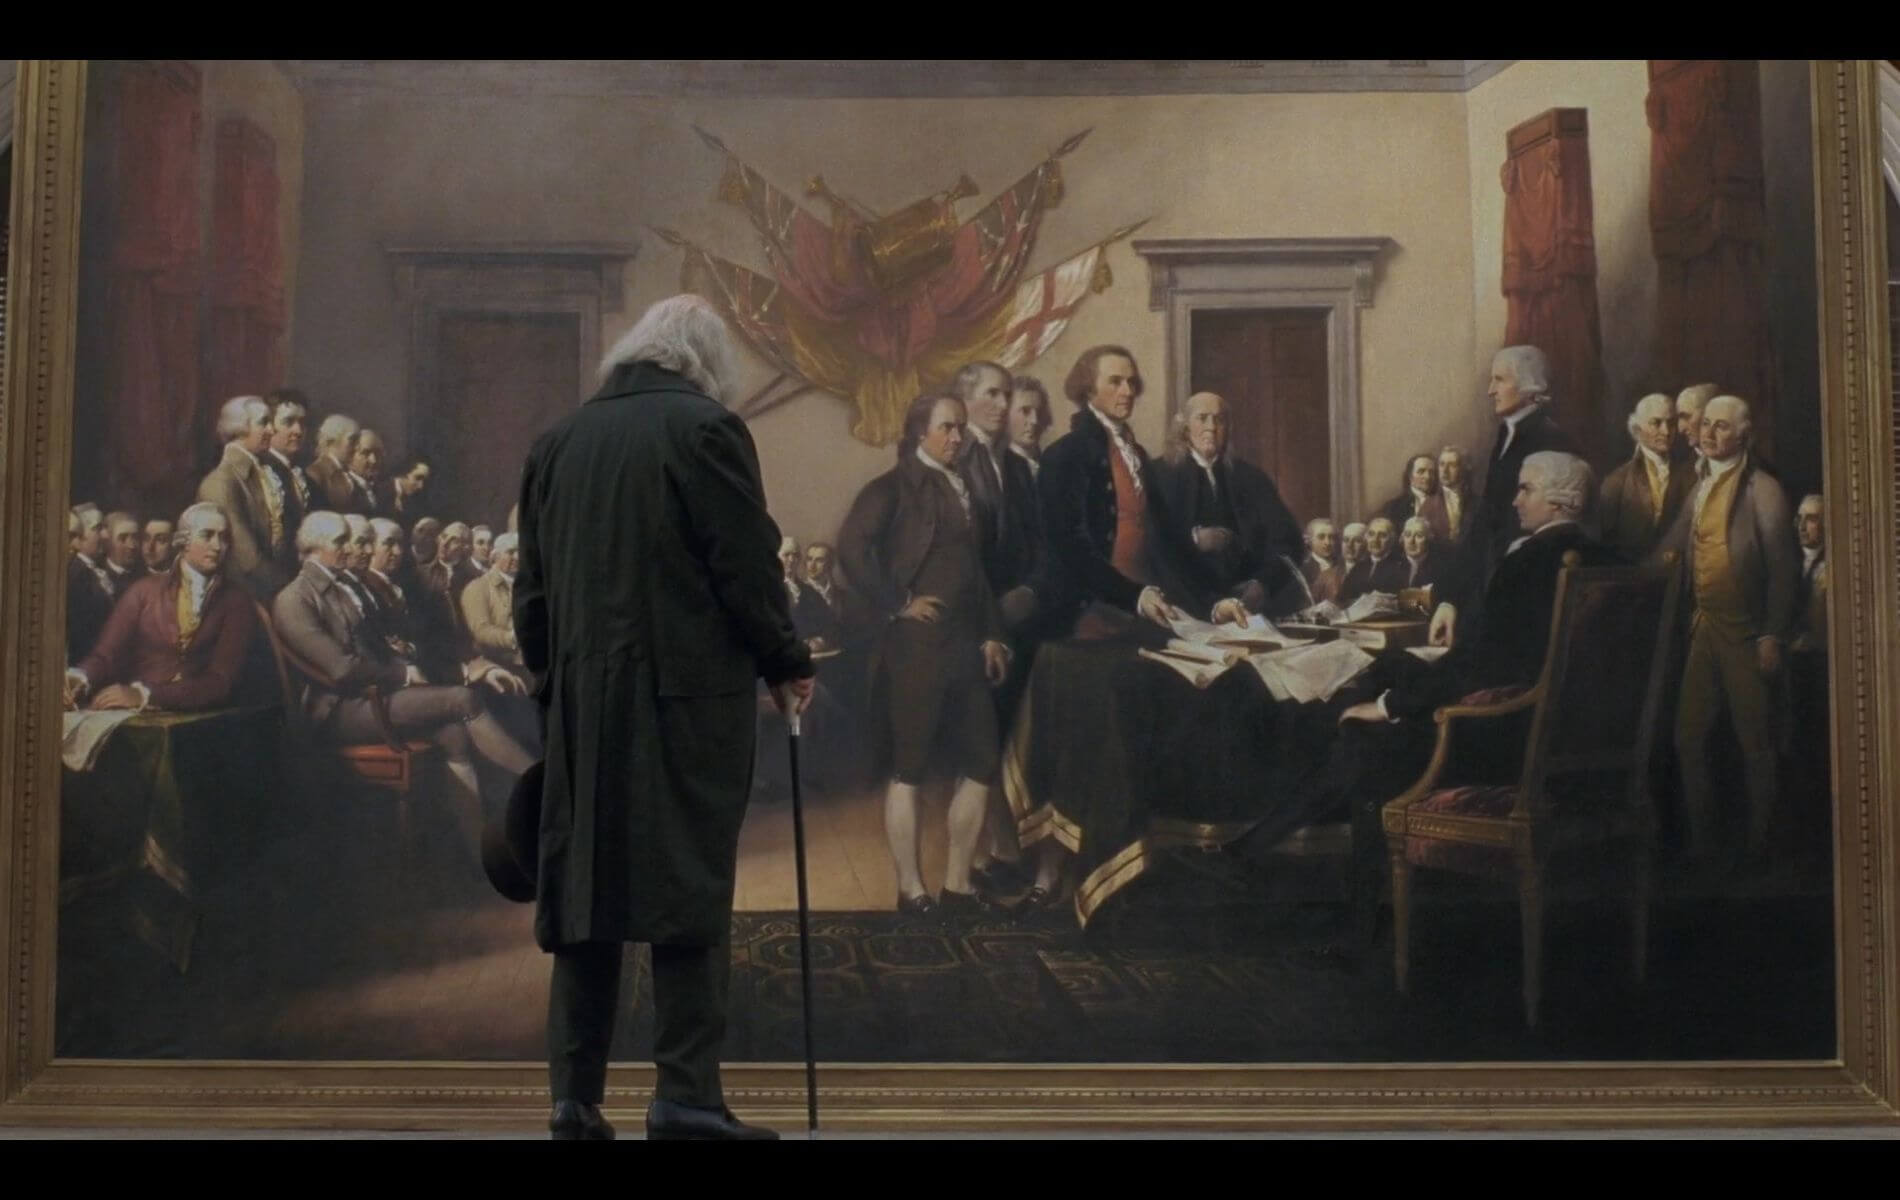
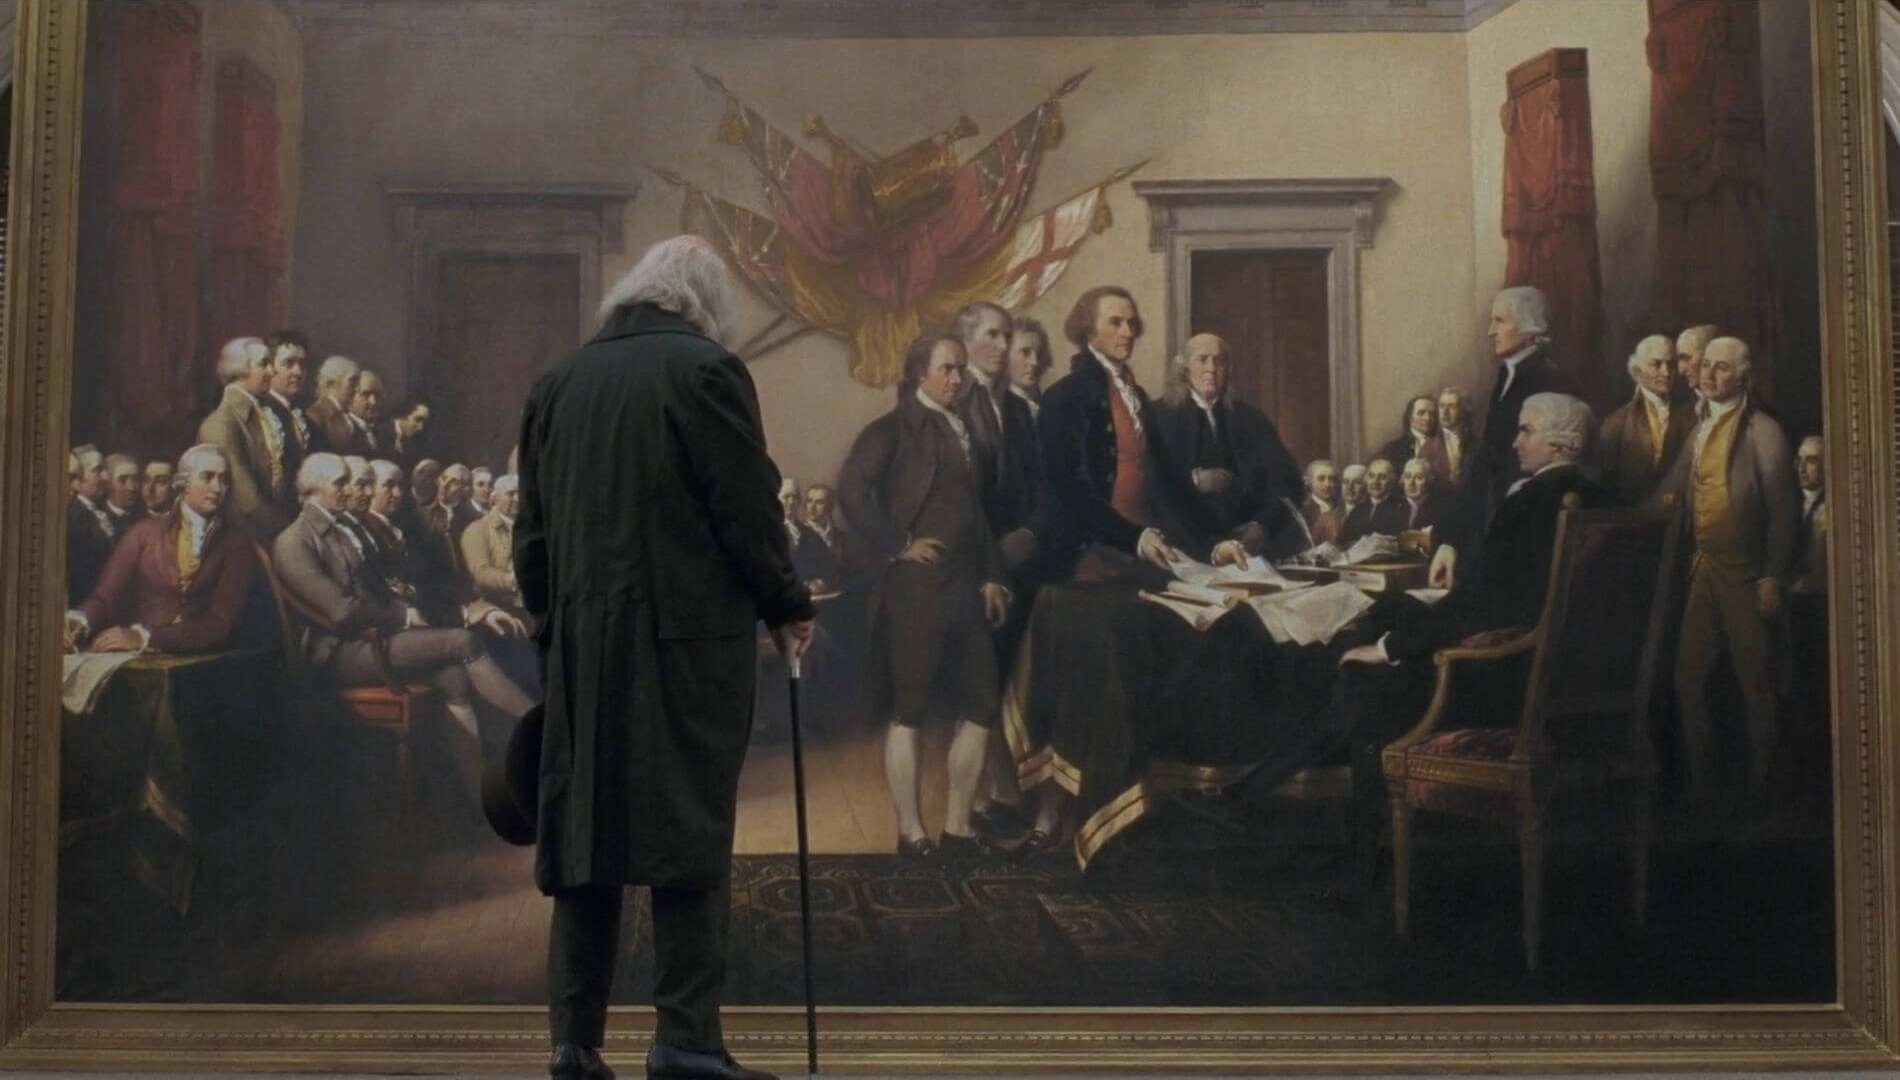
Adams

diff --git a/_drafts/2020-08-19-muistomerkittomat.md b/_drafts/2020-08-19-muistomerkittomat.md
@@ -36,25 +36,25 @@ gallery2:
 gallery3:
   - url: /assets/images/kuvat/adams-2.jpg
     image_path: /assets/images/kuvat/adams-2.jpg
-    alt: "Elämää Szarvas térillä, lähellä vanhaa Tabán keskustaa. Taustalla nimen mukaisesti Szarvas-talo, joka on nähnyt Tabán elämää noin 1700-luvulta lähtien. Kuvaushetkellä vuonna 1912 talossa toimi kahvila, nykyisin ravintola. (Kuva: Fortepan / Saly Noémi)"
-    title: "Elämää Szarvas térillä, lähellä vanhaa Tabán keskustaa. Taustalla nimen mukaisesti Szarvas-talo, joka on nähnyt Tabán elämää noin 1700-luvulta lähtien. Kuvaushetkellä vuonna 1912 talossa toimi kahvila, nykyisin ravintola. (Kuva: Fortepan / Saly Noémi)"
+    alt: "John Adams tarkastelee John Trumbullin *Yhdysvaltain itsenäisyysjulistuksen allekirjoitus* -maalausta."
+    title: "John Adams tarkastelee John Trumbullin *Yhdysvaltain itsenäisyysjulistuksen allekirjoitus* -maalausta. (Kuva: Home Box Office)"
   - url: /assets/images/kuvat/adams-10.jpg
     image_path: /assets/images/kuvat/adams-10.jpg
-    alt: "Maisema Bérc utcalla vuonna 1912. (Kuva: Fortepan / Schoch Frigyes)"
-    title: "Maisema Bérc utcalla vuonna 1912. (Kuva: Fortepan / Schoch Frigyes)"
+    alt: "Peacefield."
+    title: "Peacefield. (Kuva: Home Box Office)"
 
 ---
 
-**Yhdysvaltain protestit ovat nostaneet keskusteluun erään yllättävän asian: maan ensimmäisen dynastian toteutumattoman muistomerkin.**
+**Protestit Yhdysvalloissa ovat nostaneet keskusteluun erään yllättävän asian: maan ensimmäisen dynastian toteutumattoman muistomerkin.**
 
-![Nokia-laatikoita](/assets/images/kuvat/adams-7.jpg){: .align-left}
-George Floydin kuolemasta seuranneiden protestien tuoksinnassa Yhdysvalloissa on ryhdytty nykyhetken lisäksi tarkastelemaan uudelleen myös suhtautumista maan menneisyyteen. Osana prosessia muun muassa orjuutta, Amerikan intiaanien kansanmurhaa, Amerikan konfederaatiota ja rotuerottelua edustavia patsaita ja muistomerkkejä on töhritty ja peitelty mielenilmauksena tai niitä on siirretty pois väliaikaisesti tai lopullisesti. Tähän joukkoon kuuluvat muun muassa maan perustajaisiin kuuluvien **George Washingtonin** ja **Thomas Jeffersonin** patsaat, vaikka maan ensimmäinen ja kolmas presidentti on yleensä lueteltu maan merkittävimpien poliitikkojen joukkoon ja heidän kasvonsa löytyvät Mount Rushmore-vuoreen veistetystä muistomerkistä. Molemmat olivat kuitenkin elämänsä aikana orjien omistajia – varsinkin Jeffersonin suhde yli 600 orjaansa on ollut keskustelun ja kiistelyn aiheena vuosikymmenien ajan.
+![Yhdysvaltain itsenäisyysjulistuksen luonnoksen työstänyt viisihenkisen komitea](/assets/images/kuvat/adams-7.jpg){: .align-left}
+George Floydin kuoleman jälkeen alkaneiden protestien tuoksinnassa on Yhdysvalloissa ryhdytty nykyhetken lisäksi tarkastelemaan uudelleen myös suhtautumista maan menneisyyteen. Osana prosessia muun muassa orjuutta, Amerikan intiaanien kansanmurhaa, Amerikan konfederaatiota ja rotuerottelua edustavia patsaita ja muistomerkkejä on töhritty ja peitelty mielenilmauksena tai niitä on siirretty pois väliaikaisesti tai lopullisesti. Tähän joukkoon kuuluvat muun muassa maan perustajaisiin kuuluvien **George Washingtonin** ja **Thomas Jeffersonin** patsaat, vaikka maan ensimmäinen ja kolmas presidentti on yleensä lueteltu maan merkittävimpien poliitikkojen joukkoon ja heidän kasvonsa löytyvät Mount Rushmore-vuoreen veistetystä muistomerkistä. Molemmat olivat kuitenkin elämänsä aikana orjien omistajia – varsinkin Jeffersonin suhde yli 600 orjaansa on ollut keskustelun ja kiistelyn aiheena vuosikymmenien ajan.
 
 Jo vuoden 2019 lopussa, ennen tämän hetken protestien alkamista, sosiaalisessa mediassa nousi jälleen esiin keskustelu, jonka mukaan Yhdysvaltain itsenäisyysjulistuksen 47:sta allekirjoittajasta arviolta 34 omisti orjia elämänsä aikana, vaikka julistuksessa julistettiin juhlallisesti ihmisten olevan luotuja tasa-arvoisiksi. Poikkeuksena itsenäisyysjulistuksen allekirjoittajien joukosta on viime aikoina noussut esiin maan toinen presidentti **John Adams**, jonka perheessä ei omistettu orjia. Hän on kuitenkin myös ainut itsenäisyysjulistuksen luonnoksen työstäneen viisihenkisen komitean jäsen, jolle ei ole pysytetty patsasta tai muistomerkkiä liittovaltion pääkaupunkiin Washington D.C.:hen. Esimerkiksi hänen julistuksen allekirjoittajiin kuuluvalla serkulla **Samuel Adamsilla** on patsas Capitolin kansallisessa patsassalissa.
 
 Muistomerkin pystyttämistä on yritetty kuluneen 20 vuoden aikana, mutta sen sijoituspaikasta ja itse muistomerkin ulkomuodosta ei olla päästy yhteisymmärrykseen. Yhdysvaltain kongressi on tavallaan antanut oman siunauksensa projektille, mutta se on pariin otteeseen joutunut antamaan lisäaikaa muistomerkin rahoituksen keräämiselle, koska kerättävä summa ei ole täyttynyt määräaikaan mennessä. Muistomerkki ei tulisi olemaan omistettu vain John Adamsille, vaan koko hänen perheelleen, jolla on merkittävä osa Yhdysvaltain historiassa. Viime aikaiset protestit ovat jälleen nostaneet esiin keskustelun Adamsien muistomerkin pystyttämisestä, koska perheen perintöä pidetään korostamisen arvioisena ja heidän menneisyyttä tarvittavan puhtoisena.
 
->"Mausoleums, Statues, Monuments will never be erected to me. I wish them not – Panegyrical Romances, will never be written, nor flattering Orations pronounced to transmit my Character to Posterity in glorious Colours."
+>"**Mausoleums, Statues, Monuments will never be erected to me.** I wish them not – Panegyrical Romances, will never be written, nor flattering Orations pronounced to transmit my Character to Posterity in glorious Colours."
 >
 >– **John Adams**, 28. maaliskuuta 1809 päivätyssä [kirjeessään](https://founders.archives.gov/documents/Adams/99-02-02-5328).
 
@@ -68,7 +68,7 @@ Adamsien perhe on ensimmäinen yhdysvaltalainen perhe, josta vanhempi ja jälkel
 
 Adamsit jättivät jälkeensä runsaan määrään kirjeitä, jotka ovat olleet omiaan kertomaan tuon ajan tapahtumista ja tuntemuksista. Kirjeiden joukossa on myös pariskunnan keskinäinen kirjeenvaihto, josta on luettavissa kahdenkeskistä ajatusten vaihtoa politiikasta, mutta myös suoranaista neuvojen jakamista. Esimerkiksi yksi tunnetuimmista Abigail Adamsin kirjeistä miehelleen on maaliskuulta 1776, jolloin hän esitti ajatuksia naisten tasa-arvosta ja heidän nostamisesta aviomiestensä rinnalle, koska hänen mielestään miehistä tulee lopulta tyranneja liian suuren vallan myötä. Tämän kaltaiset rohkeat näkymykset ovat olleet omiaan nostamaan Abigail Adamsin ja hänen perheensä historiallista asemaa ja perintöä, jota nykypäivänä haluttaisiin muistaa ja korostaa entistä enemmän.
 
->"I long to hear that you have declared an independency. And, by the way, in the new code of laws which I suppose it will be necessary for you to make, I desire you would remember the ladies and be more generous and favorable to them than your ancestors. Do not put such unlimited power into the hands of the husbands. Remember, all men would be tyrants if they could. If particular care and attention is not paid to the ladies, we are determined to foment a rebellion, and will not hold ourselves bound by any laws in which we have no voice or representation."
+>"I long to hear that you have declared an independency. And, by the way, in the new code of laws which I suppose it will be necessary for you to make, **I desire you would remember the ladies and be more generous and favorable to them than your ancestors. Do not put such unlimited power into the hands of the husbands. Remember, all men would be tyrants if they could.** If particular care and attention is not paid to the ladies, we are determined to foment a rebellion, and will not hold ourselves bound by any laws in which we have no voice or representation."
 >
 >– **Abigail Adams**, 31. maaliskuuta 1776 päivätyssä [kirjeessään](https://founders.archives.gov/documents/Adams/04-01-02-0241) miehelleen.
 
@@ -76,18 +76,27 @@ John Adamsin perintöä presidenttinä on erityisesti varjostanut hänen allekir
 
 ## John Adams – väärinymmärretty presidentti
 
-HBO:n vuonna 2008 esitetty seitsenosainen *John Adams* -minisarja oli yritys kasvattaa Adamsin tunnettavuutta ja arvostusta perustajaisänä ja presidenttinä. **David McCulloughin** kirjoittamaan elämänkertaan perustuva minisarja kertoo Yhdysvaltain synnystä ja sen ensiaskelista, mutta nimensä mukaisesti se keskittyy John Adamsin ja hänen perheensä elämään, jonka näkökulmasta tapahtumia seurataan. Lakimiehenä Adams puolustaa Bostonin verilöylystä syytettyjä brittisotilaita, vaikka tehtävä on epäkiitollinen ja hän ei ole kannattanut Britannian verotustoimia Brittiläisessä Amerikassa. Hänestä tulee itsenäisyyttä voimakkaasti ajava hahmo, jonka mielestä rauha brittien kanssa on mahdollista saavuttaa vain asein ja väkivalloin. Huoli perheestä on suuri, koska vapaussodan ensimmäiset taistelut käydään Massachusettsin osavaltiossa, jossa perhe asustaa lähellä Bostonia, jonka Britannian joukot lopulta piirittävät.
+HBO:n vuonna 2008 esitetty seitsenosainen *John Adams* -minisarja oli yritys kasvattaa Adamsin tunnettavuutta ja arvostusta perustajaisänä ja presidenttinä. **David McCulloughin** kirjoittamaan elämänkertaan perustuva minisarja kertoo Yhdysvaltain synnystä ja sen ensiaskelista, mutta nimensä mukaisesti se keskittyy John Adamsin ja hänen perheensä elämään, jonka näkökulmasta tapahtumia seurataan.
+
+Lakimiehenä Adams puolustaa Bostonin verilöylystä syytettyjä brittisotilaita, vaikka tehtävä on epäkiitollinen, eikä hän ole kannattanut Britannian verotustoimia Brittiläisessä Amerikassa. Hänestä tulee itsenäisyyttä voimakkaasti ajava hahmo, jonka mielestä rauha brittien kanssa on mahdollista saavuttaa vain asein ja väkivalloin. Huoli perheestä on suuri, koska vapaussodan ensimmäiset taistelut käydään Massachusettsin osavaltiossa, jossa perhe asustaa lähellä Bostonia, jonka Britannian joukot lopulta piirittävät.
 
 >"We may not live to the time when this Declaration shall be made good. We may die; die colonists; die slaves; die, it may be, ignominiously and on the scaffold. Be it so. Be it so. If it be the pleasure of Heaven that my country shall require the poor offering of my life, the victim shall be ready, at the appointed hour of sacrifice, come when that hour may. **But while I do live, let me have a country, or at least the hope of a country, and that a free country.**"
 >
 >– Ote itsenäisyyden tavoittelua puolustavasta puheesta, jonka **John Adamsin** väitetään pitäneen toisessa mannermaakongressissa.
 
-Yhdysvaltain itsenäistymisen jälkeen
-
 {% include gallery id="gallery2" layout="half" caption="**Vasen:** *”Jumala kuningasta siunatkoon. Kuka muu olisi yhdistänyt kongressin? Nyt meidät kaikki hirtetään yhdessä, tai pikemminkin kukin vuorollaan.”* Benjamin Franklinin (Tom Wilkinson) toteamus kuningas Yrjö III:n julistamasta hirttotuomiosta itsenäisyyttä ajaville. Hänen vierellään John Adams (Paul Giamatti). (Kuva: Home Box Office) **Oikea:** *”Kammottava hermafrodiitti, jolla ei ole miehen lujuutta, eikä naisen lämpöä tai herkkyyttä.”* Abigail Adams lukee halventavaa lehtikirjoitusta hänen miehestään. (Kuva: Home Box Office)"%}
 
+Yhdysvaltain itsenäistymisen jälkeen John Adams matkustaa Eurooppaan yhdessä poikansa John Quincyn kanssa. Hän toimii vuosien ajan diplomaattina Ranskassa, Alankomaissa sekä Iso-Britanniassa, kun hänen poikansa vuorostaan lähetetään noin 14 vuoden ikäisenä Venäjälle Yhdysvaltojen diplomaatin sihteeriksi ja avustajaksi. Noin 12 vuoden jälkeen John Adams palaa Yhdysvaltoihin, jolloin hänet valitaan maan varapresidentiksi, jonka roolinsa hän tuntee itsensä tarpeettomaksi. Kahdeksan vuotta myöhemmin hänet valitaan presidentiksi, jolloin joutuu kahden puolueen valtataistelun keskelle, jolloin ei kykene miellyttämään edes oman puolueen poliitikkoja.
 
-{% include gallery id="gallery3" layout="half" caption="**Vasen:** Elämää juoksuhaudassa vuonna 1915. (Kuva: Fortapan / Komlós Péter) **Oikea:** Leninin ja Karl Liebknechtin rintakuvat tervehtivät ohikulkijoita 1. toukokuuta 1919 Kígyó térillä (nyk. Ferenciek tere). Tynkä-Unkaria hallinnut Unkarin neuvostotasavalta oli pystössä vain 133 päivää. (Kuva: Fortapan / Schoch Frigyes)"%}
+>"It is a common observation in Europe that nothing is so false as modern history — I should say nothing is so false as modern history except ancient history, and I should add nothing is so false as ancient & modern history in Europe except modern American history. **A false construction and a false complexion has already been given to American history.** A hundred years hence when private cabinets can be opened with safety some of these errors may be corrected in part but they never can be in whole."
+>
+>– **John Adams**, 2. heinäkuuta 1820 päivätyssä [kirjeessään](https://founders.archives.gov/documents/Adams/99-02-02-7365) George A. Otisille.
+
+Adamsin perheen dramatisoinnissa on tietenkin käytetty taiteilijan vapautta muuttaa ja yhdistää tapahtumia draaman nimissä, jolloin minisarjan esittämällä tulkinnalla on omat vääristymänsä ja ongelmansa. Osassa tapahtumia perheen asema on paljon keskeisempi, kuin mitä se todellisuudessa oli, sekä eräiden henkilöiden rooli ja teot vaihtavat keskenään paikkaa. Minisarjassa esimerkiksi unohdetaan Abigail Adamsin rooli miehensä ja Thomas Jeffersonin kuuluisan kirjeenvaihdon käynnistäjänä.
+
+Viimeisessä jaksossa on historian vääristelyyn liittyvä kohtaus, jossa elämänsä ehtoopuolella oleva John Adams tarkastelee **John Trumbullin** kuuluisaa *Yhdysvaltain itsenäisyysjulistuksen allekirjoitus* -maalausta. Hyväksynnän sijasta tyytymättönyytensä maalaukseen toteamalla sen vääristelevän historian kulkua, koska monimutkaiset asiat esitetään yksinkertaistettuna.
+
+{% include gallery id="gallery3" layout="half" caption="**Vasen:** John Adams tarkastelee John Trumbullin *Yhdysvaltain itsenäisyysjulistuksen allekirjoitus* -maalausta. (Kuva: Home Box Office) **Oikea:** Peacefield. (Kuva: Home Box Office)"%}
 
 ## Menneisyyden tarkastelu
 
@@ -95,13 +104,13 @@ Yhdysvaltain itsenäistymisen jälkeen
 
 Miettiessä Yhdysvaltain kolmea ensimmäistä presidenttiä ja heidän suhdetta orjuuteen; Washingtonin puolustukseksi on yleensä lueteltu hänen myöhemmällä iällä muuttunut suhtautuminen orjuuteen. Hän ei viimeisinä vuosinaan enää pitänyt orjuutta moraalisesti oikeana, joten hän pyysi testamentissaan vapauttamaan orjansa, mutta myös huolehtimaan nuoremmista ja vanhimmista orjista. Jefferson suhde orjiinsa on aiemmin mainitun mukaisesti ollut kiistanaihe vuosikymmeniä, koska siihen liitetään väittely mahdollisesta seksuaalisesta suhteesta **Sally Hemings** nimisen orjan kanssa. Adamsin suhtautuminen orjuuteen taas kertoo siitä, että jo tuolloin orjuutta on pidetty moraalisesti vääränä.
 
->"Although I have never Sought popularity by any animated Speeches or inflammatory publications against the Slavery of the Blacks, my opinion against it has always been known and my practice has been so conformable to my sentiment that I have always employed freemen both as Domisticks and Labourers, and never in my Life did I own a Slave. The Abolition of Slavery must be gradual and accomplished with much caution and Circumspection. Violent means and measures would produce greater violations of Justice and Humanity, than the continuance of the practice. Neither Mr Mifflin nor yourselves, I presume would be willing to venture on Exertions which would probably excite Insurrections among the Blacks to rise against their Masters and imbue their hands in innocent blood."
+>"Although I have never Sought popularity by any animated Speeches or inflammatory publications against the Slavery of the Blacks, my opinion against it has always been known and my practice has been so conformable to my sentiment that I have always employed freemen both as Domisticks and Labourers, and never in my Life did I own a Slave. **The Abolition of Slavery must be gradual and accomplished with much caution and Circumspection. Violent means and measures would produce greater violations of Justice and Humanity, than the continuance of the practice.** Neither Mr Mifflin nor yourselves, I presume would be willing to venture on Exertions which would probably excite Insurrections among the Blacks to rise against their Masters and imbue their hands in innocent blood."
 >
 >– **John Adams**, 24. tammikuuta 1801 päivätyssä [kirjeessään](https://founders.archives.gov/documents/Adams/99-02-02-4766) kahdelle orjuuttamisen lakkauttamista ajavalle henkilölle, jotka lähettivät hänelle orjuuden vastaisen pamfletin.
 
 Adams ei kuitenkaan aktiivisesti poliittisesti vastustanut orjuuttaa. Tähän on syynä pelko siitä, että liian nopea ja varomaton orjuuden lakkauttaman johtaisi orjien nousuun entisiä omistajiaan vastaan, jolloin tilanne muuttuisi väkivaltaiseksi ja verikseksi. Tämä sama pelko on ollut monella tuon ajan poliitikolla, vaikka he ovat pitäneet orjuutta vääränä. Väkivallan ja kaaoksen välttäminen korostaa Adamsia poliitikkona ja henkilönä, joka halusi välttää Yhdysvaltain joutu
 
->"Statesmen my dear Sir [Zabriel Adams], may plan and speculate for Liberty, but it is Religion and Morality alone, which can establish the Principles upon which Freedom can securely stand... The only foundation of a free Constitution, is pure Virtue, and if this cannot be inspired into our People, in a greater Measure, than they have it now, They may change their Rulers, and the forms of Government, but they will not obtain a lasting Liberty. They will only exchange Tyrants and Tyrannies."
+>"Statesmen my dear Sir [Zabriel Adams], may plan and speculate for Liberty, but it is Religion and Morality alone, which can establish the Principles upon which Freedom can securely stand... **The only foundation of a free Constitution, is pure Virtue**, and if this cannot be inspired into our People, in a greater Measure, than they have it now, They may change their Rulers, and the forms of Government, but they will not obtain a lasting Liberty. They will only exchange Tyrants and Tyrannies."
 >
 >– **John Adams**, 21. kesäkuuta 1776 päivätyssä [kirjeessään](https://founders.archives.gov/documents/Adams/04-02-02-0011) sedälleen Zabdiel Adamsille.
 
